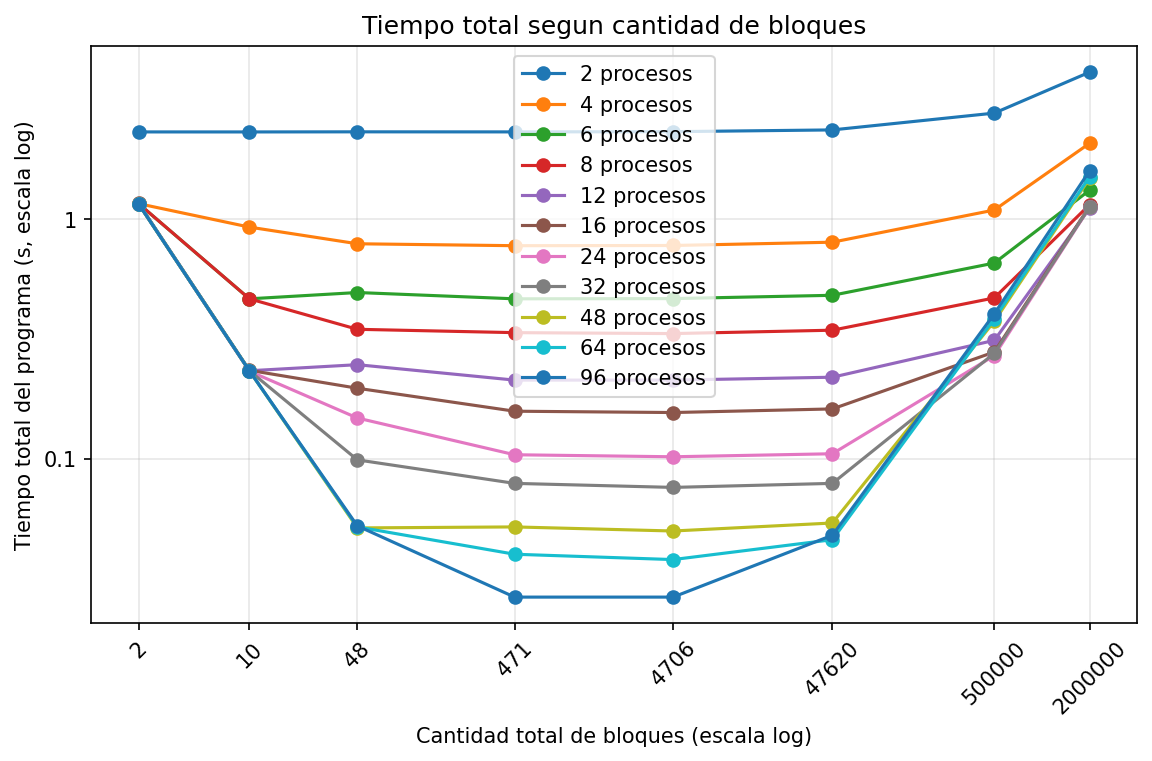
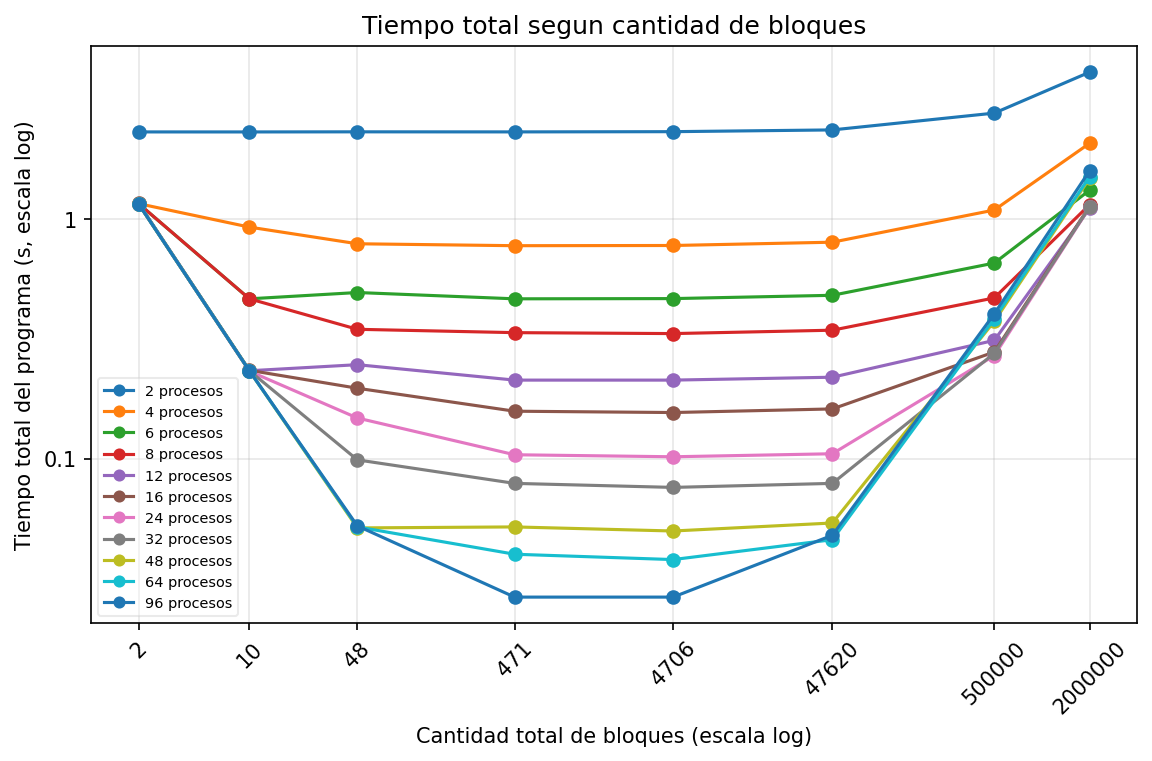
Actualizar tabla del cluster en el informe y ajuste en gráficos
- En docs/informe.md: completar tabla comparativa con 6, 12, 24 y 48 procesos y explicar el empate en 48 procesos junto a latencia de interconexión.
- En src/graficos.py: ajustar posición y formato de la leyenda en gráfico de bloques y formato de salida.
- En resultados/: actualizar gráficos de cluster y sergio.

Changed region(s): [[0.4375, 0.0604, 0.625, 0.5138], [0.0938, 0.4836, 0.1875, 0.816]]

diff --git a/src/graficos.py b/src/graficos.py
@@ -75,7 +75,7 @@ sp_dinamico = []
 ef_dinamico = []
 
 print("\n--- DINAMICO (Mejor bloque por proceso) ---")
-print("procesos | mejor bloque | tiempo (s) | speedup | eficiencia")
+print("procesos | mejor tamanio bloque | tiempo (s) | speedup | eficiencia")
 for p in procs_dinamico:
     mejor_tiempo = float('inf')
     mejor_bloque = -1
@@ -161,10 +161,9 @@ for p in sorted(datos_bloques):
     trabajadores = max(p - 1, 1)
     mejor = min(datos_bloques[p], key=lambda f: f[2])
     print(f"\nProcesos: {p} ({trabajadores} trabajadores)")
-    print("bloques tot. | bloques/trab. | tam. bloque | tiempo (s) | extra/bloque (us)")
+    print("bloques tot. | bloques/trab. | tam. bloque | tiempo (s)")
     for n, b, t in datos_bloques[p]:
-        extra = (t - mejor[2]) / n * 1e6
-        print(f"{n:12d} | {n/trabajadores:13.1f} | {b:11d} | {t:10.3f} | {max(extra, 0):17.2f}")
+        print(f"{n:12d} | {n/trabajadores:13.1f} | {b:11d} | {t:10.3f}")
     print(f"  -> mejor: {mejor[0]} bloques (tam. {mejor[1]}) con {mejor[2]:.3f} s")
 
 # ---------------------------------------------------------------
@@ -188,7 +187,7 @@ plt.xlabel("Cantidad total de bloques (escala log)")
 plt.ylabel("Tiempo total del programa (s, escala log)")
 plt.title("Tiempo total segun cantidad de bloques")
 plt.grid(alpha=0.3, which="both")
-plt.legend()
+plt.legend(loc='lower left', framealpha=0.4, fontsize='x-small', markerscale=0.8)
 plt.savefig("resultados/bloques.png", dpi=150, bbox_inches="tight")
 plt.close()
 print("\nGuardado resultados/bloques.png")

diff --git a/docs/informe.md b/docs/informe.md
@@ -291,17 +291,25 @@ Para comparar ambas estrategias se midieron en el desktop de Sergio (Ryzen 7 980
 | -------- | --------------- | ------------ | ---------- | --------------- | ------------ | ---------- | ------------ |
 | 2        | 1.156           | 2.01         | 1.00       | 2.309           | 1.00         | 0.50       | 200.000      |
 | 4        | 0.580           | 4.00         | 1.00       | 0.774           | 2.99         | 0.75       | 4.255        |
+| 6        | 0.388           | 5.98         | 1.00       | 0.465           | 4.99         | 0.83       | 4.255        |
 | 8        | 0.291           | 7.96         | 0.99       | 0.333           | 6.97         | 0.87       | 425          |
+| 12       | 0.194           | 11.96        | 1.00       | 0.213           | 10.89        | 0.91       | 425          |
 | 16       | 0.146           | 15.89        | 0.99       | 0.156           | 14.87        | 0.93       | 425          |
+| 24       | 0.099           | 23.55        | 0.98       | 0.102           | 22.74        | 0.95       | 425          |
 | 32       | 0.074           | 31.34        | 0.98       | 0.076           | 30.52        | 0.95       | 425          |
+| 48       | 0.050           | 46.39        | 0.97       | 0.050           | 46.39        | 0.97       | 425          |
 | 64       | 0.037           | 62.69        | 0.98       | 0.038           | 61.04        | 0.95       | 425          |
 | 96       | 0.026           | 89.21        | 0.93       | 0.026           | 87.53        | 0.91       | 425          |
 
 Observaciones:
 
-- **El estático es superior al dinámico en todos los casos:** El problema es naturalmente homogéneo: cada grupo simula 23 personas y toma casi el mismo tiempo, por lo que no hay desbalance de carga que el dinámico pueda corregir. El estático reparte todo de entrada sin comunicación intermedia.
+- **El estático es superior al dinámico en casi todos los casos:** El problema es naturalmente homogéneo: cada grupo simula 23 personas y toma casi el mismo tiempo, por lo que no hay desbalance de carga que el dinámico pueda corregir. El estático reparte todo de entrada sin comunicación intermedia.
 - **El costo del maestro dedicado:** En el dinámico, el proceso 0 no computa, solo coordina. Con 2 procesos solo 1 trabaja, por eso la eficiencia da ~50%. Con 4 procesos trabajan 3 (máximo teórico 75%).
-- **Por qué el dinámico mejora con más procesos:** Al aumentar la cantidad de procesos, perder 1 proceso como maestro pesa mucho menos (en 8 procesos se pierde 1/8, en 64 solo 1/64). Por eso la eficiencia del dinámico sube del 50% con 2 procesos a más del 95% con 32 o 64 procesos, acercándose al estático.
+- **Por qué el dinámico mejora, empata en 48 procesos y decae luego (64 y 96 procesos):**
+  Al aumentar la cantidad de procesos, el dinámico mejora porque perder 1 proceso como maestro pesa cada vez menos (pasa de perder el 50% con 2 procesos a solo el 2.1% con 48). Justo en 48 procesos se alcanza un equilibrio óptimo: el costo del maestro es mínimo, los 4.706 bloques de tamaño 425 se dividen casi de forma exacta entre los 47 trabajadores (~100 bloques por trabajador), y el maestro aún no se satura despachando pedidos, empatando al estático en 0.050 s.
+  Sin embargo, con 64 y 96 procesos el dinámico vuelve a quedar levemente por detrás del estático por dos razones:
+  1. *Contención en el maestro:* La corrida entera dura menos de 40 milisegundos. Tener 63 o 95 trabajadores bombardeando a un único proceso central con pedidos concurrentes satura la cola de mensajes del maestro, obligando a los trabajadores a esperar turno para recibir su bloque.
+  2. *Latencia de interconexión:* En clusters de alto rendimiento como el del CCAD, al solicitar 96 núcleos la asignación abarca múltiples sockets o dominios de memoria (e interconexión de red si cruza nodos). Mientras que en el estático los procesos no se comunican y trabajan 100% en memoria local, en el dinámico los miles de mensajes de asignación deben cruzar los enlaces del cluster hacia el nodo del maestro, sumando latencia.
 - **Efecto del tamaño de bloque:** Si el bloque es muy chico (ej. 1 o 4 grupos), se generan millones de mensajes y el maestro se satura por la comunicación. Si el bloque es muy grande (ej. 1.000.000), los trabajadores terminan rápido y quedan ociosos esperando al último. El rango óptimo está en el medio, entre 400 y 4.255 grupos por bloque (ver `bloques.png`).
 - **La precisión no depende del tamaño de bloque:** En `bloques_precision.png` se observa que el error frente al valor teórico es prácticamente idéntico con cualquier bloque. Esto se debe a que la cantidad total de grupos simulados es la misma (2.000.000) y cada bloque tiene su propia semilla (`12345 + id_bloque`), por lo que terminan siendo exactamente los mismos cálculos divididos de otra forma.
 
@@ -309,7 +317,7 @@ Observaciones:
 
 1. La simulación reproduce el valor teórico con buena precisión: con 2.000.000 de grupos y K=23 se obtuvo una probabilidad estimada de 0.5070 frente al valor exacto 0.5073, con un error del orden de 0.0003, independiente del tamaño de bloque o esquema utilizado.
 2. El problema escala de forma casi lineal en la versión estática hasta la cantidad de núcleos físicos disponibles, alcanzando un speedup de 7.91 con 8 procesos en el Ryzen de Sergio (eficiencia 0.99) y 62.69 con 64 procesos en el cluster AMD EPYC (eficiencia 0.98).
-3. Aumentar la cantidad de procesos más allá de los núcleos físicos disponibles (como 96 procesos en el cluster de 64 núcleos) sigue reduciendo el tiempo total, pero con eficiencia decreciente (cae a 0.93) por contención de recursos.
+3. A gran escala (64 y 96 procesos en el cluster) el tiempo total sigue reduciéndose hasta 0.026 s, pero con una leve caída en la eficiencia (0.93 en estático y 0.91 en dinámico) debido a la latencia de comunicación entre sockets/nodos y la contención en el paso de mensajes.
 4. El speedup obtenido en el reparto estático es notablemente mejor que el de problemas con comunicación intensa, como el producto escalar del TP1, porque aquí la comunicación se reduce a un único entero por proceso al final de la corrida.
 5. El paralelismo estático es superior al dinámico en este problema: al ser una carga naturalmente homogénea, el dinámico no aporta ventajas y penaliza con la pérdida de un proceso maestro más la sobrecarga de mensajes continuos.
 6. En el dinámico, la eficiencia arranca baja (~50% con 2 procesos al haber un solo trabajador), pero crece con la cantidad de procesos a medida que el costo del maestro se diluye entre más trabajadores.
